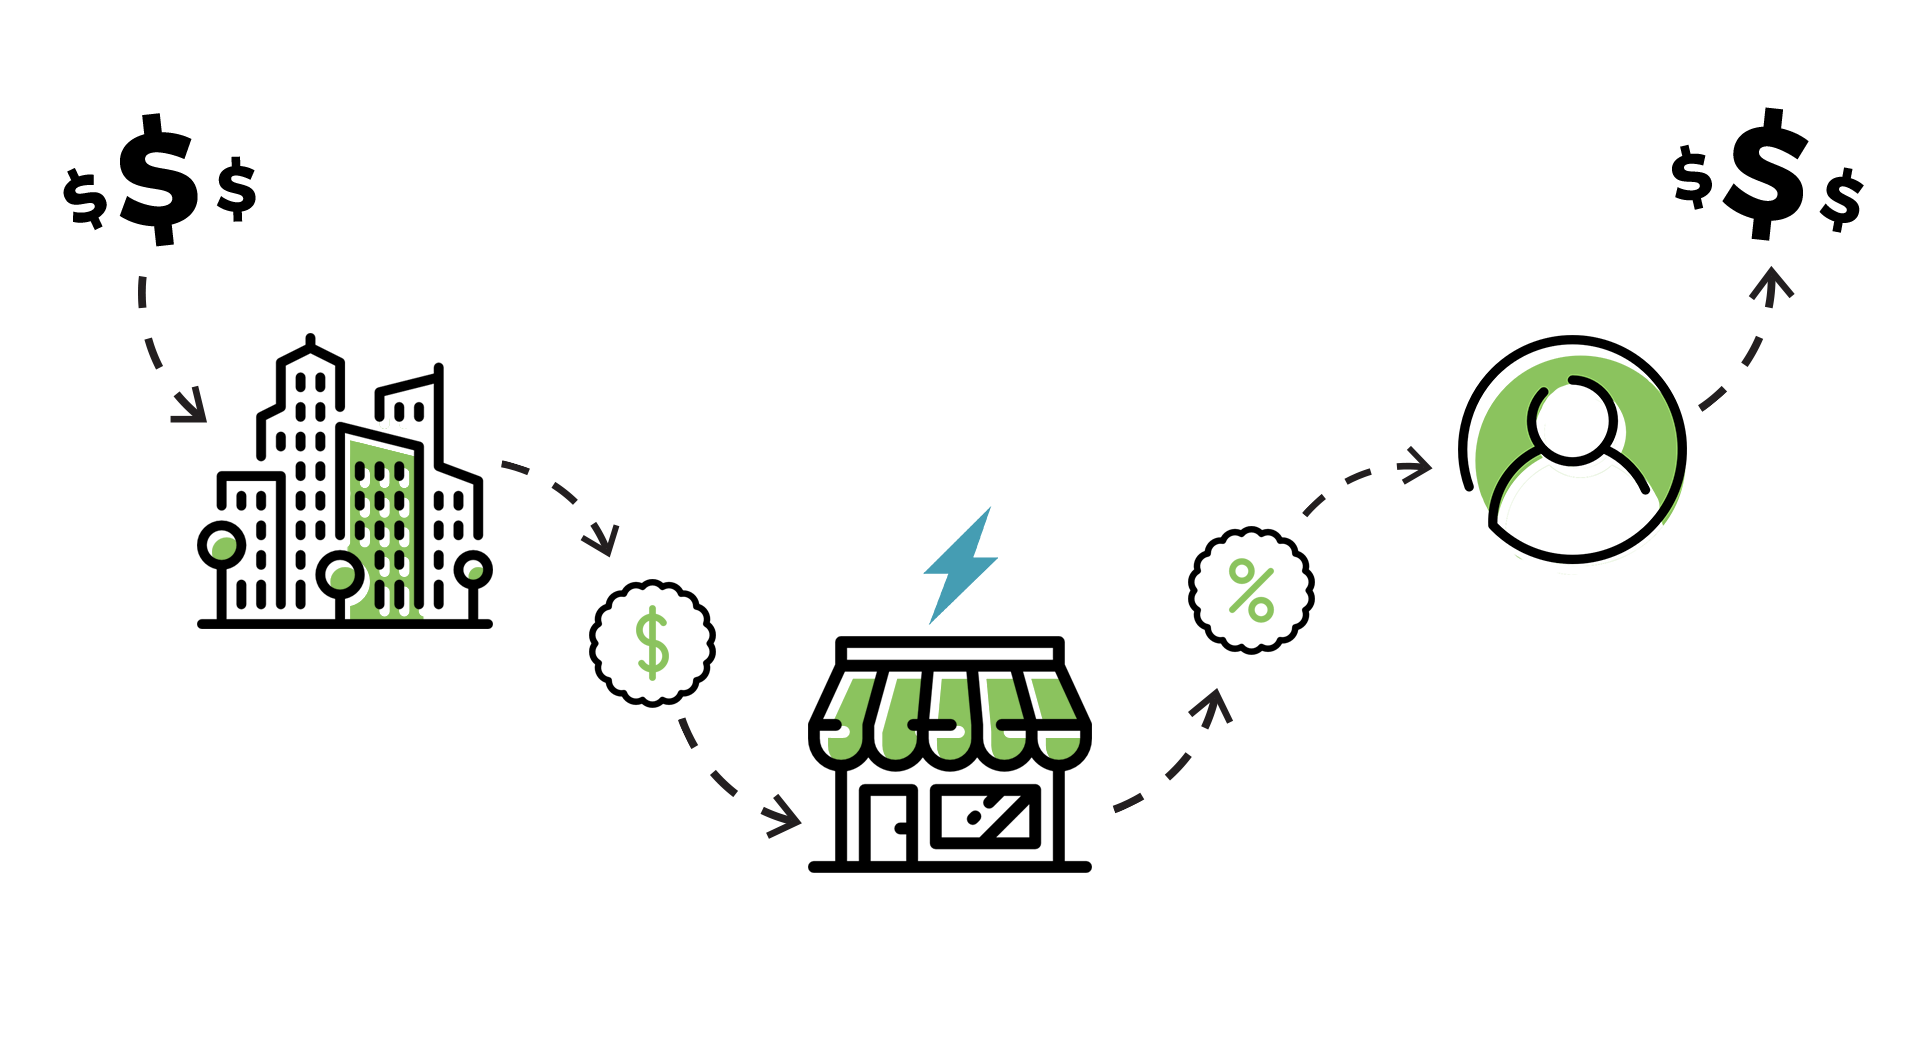
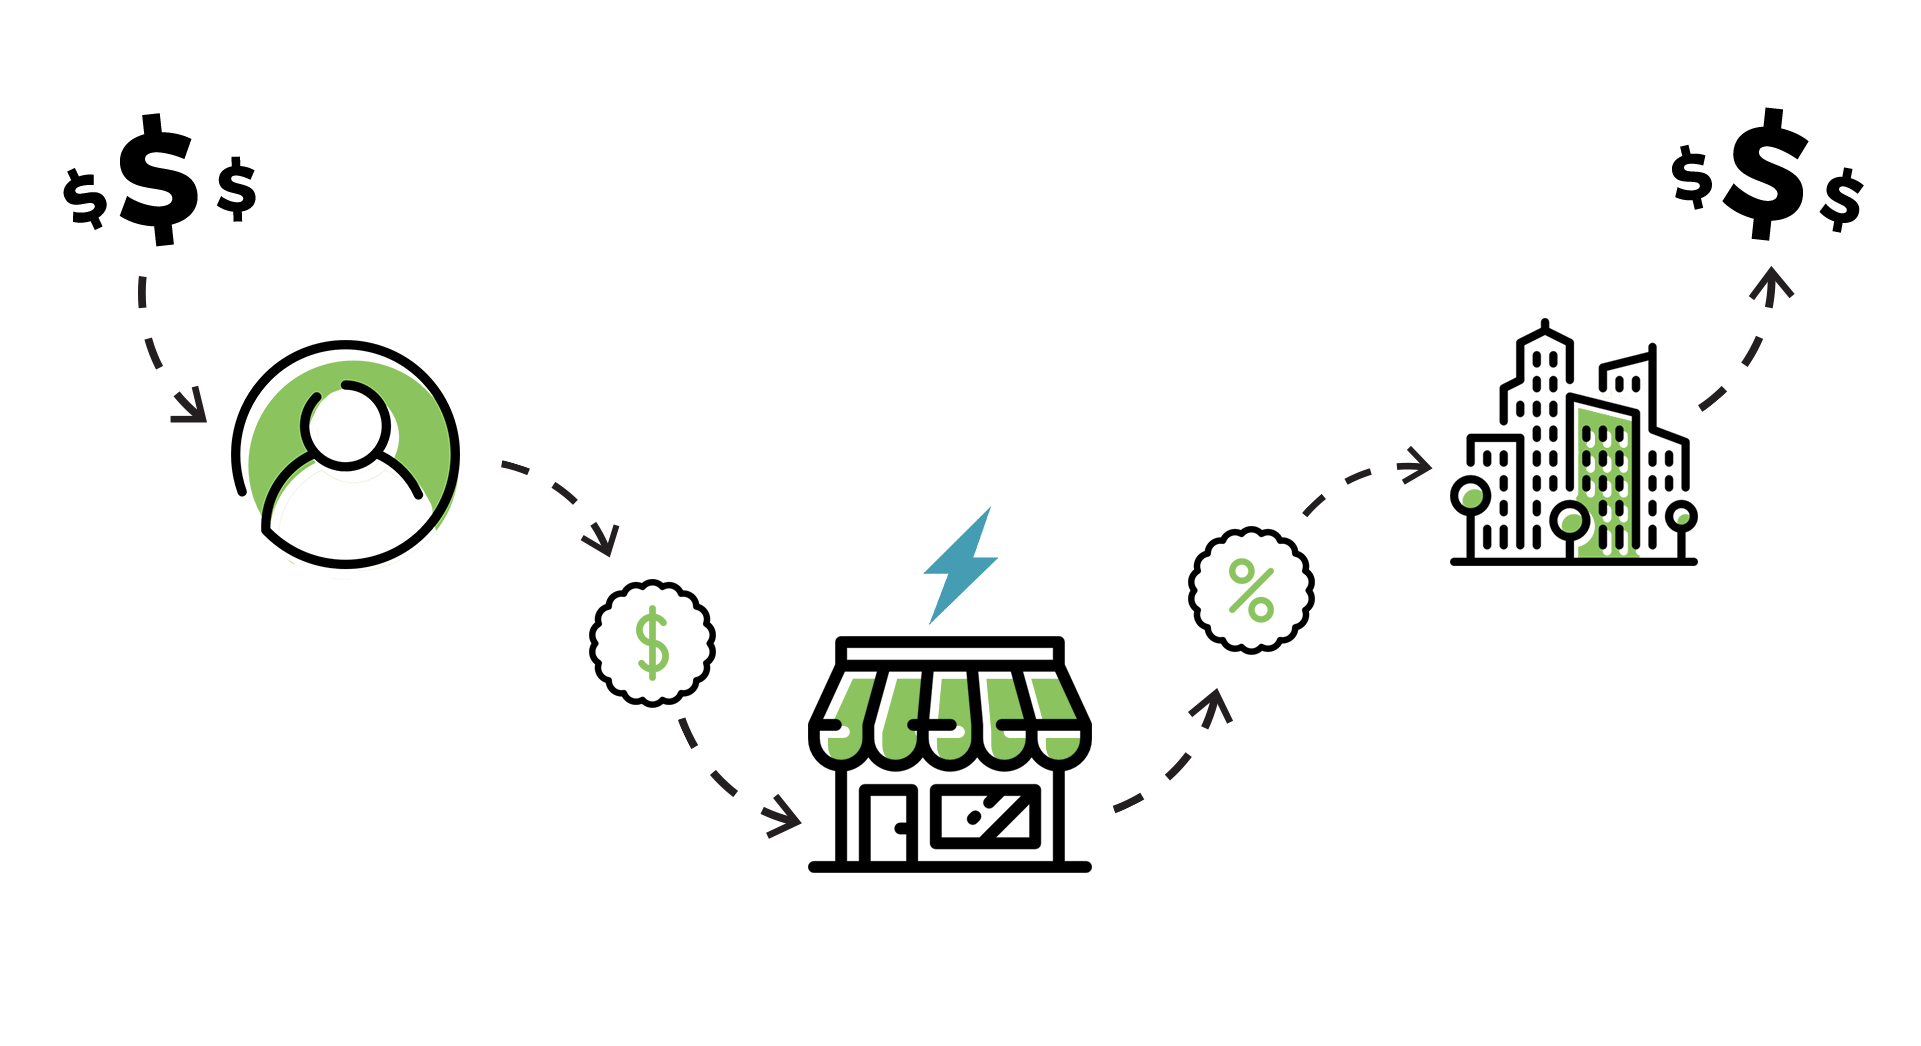
Updated graphic. minor style changes.

Changed region(s): [[0.0937, 0.3059, 0.2811, 0.6119], [0.7496, 0.3059, 0.9058, 0.5507]]

diff --git a/src/css/main.css b/src/css/main.css
@@ -113,12 +113,11 @@ body {
     margin: 0;
     padding: 0;
     padding-top: 55px;
+    padding-bottom: 25px;
     display: none; }
     #main-nav ul li {
       list-style-type: none;
-      text-align: center;
-      text-transform: uppercase;
-      letter-spacing: 3px; }
+      text-align: center; }
       #main-nav ul li a {
         display: block;
         padding: 15px;
@@ -429,8 +428,10 @@ body.info-page {
     height: 70vw;
     -webkit-clip-path: polygon(0 30.71429%, 50% 0, 100% 30.71429%, 100% 100%, 50% 69.28571%, 0 100%);
     clip-path: polygon(0 30.71429%, 50% 0, 100% 30.71429%, 100% 100%, 50% 69.28571%, 0 100%); }
-  .section-6 .content .section-title {
-    margin-bottom: 13vw; } }
+  .section-6 .content {
+    max-width: 760px; }
+    .section-6 .content .section-title {
+      margin-bottom: 13vw; } }
 
 @media (min-width: 768px) {
   #main-nav {
@@ -605,9 +606,9 @@ body.info-page {
 
 @media (min-width: 1200px) {
   .section-1 {
-    height: 40vw;
-    -webkit-clip-path: polygon(0 0, 100% 0, 100% 46.25%, 50% 100%, 0 46.25%);
-    clip-path: polygon(0 0, 100% 0, 100% 46.25%, 50% 100%, 0 46.25%); }
+    height: 43vw;
+    -webkit-clip-path: polygon(0 0, 100% 0, 100% 50%, 50% 100%, 0 50%);
+    clip-path: polygon(0 0, 100% 0, 100% 50%, 50% 100%, 0 50%); }
     .section-1 .content {
       padding-top: 10vw; }
       .section-1 .content p {

diff --git a/src/html/_index.html b/src/html/_index.html
@@ -14,12 +14,12 @@
   <div id="how-it-works-anchor" style="margin-top: -80px; float: left"></div>
   <div class="content">    
     <img class="hiw-full" src="img/sc.png"></img>
-    <img class="hiw-icon" src="img/city.png"></img>
-    <p class="hiw-text"><a href="/communities">Community:</a> Let's grow the Shop Tally spirit, and keep more spending here!</p>
-    <img class="hiw-icon" src="img/shop.png"></img>
-    <p class="hiw-text"><a href="/businesses">Businesses:</a> Supercharge Shop Tally further by adding cashback rewards to attract even more local customers.</p>
     <img class="hiw-icon" src="img/user.png"></img>
     <p class="hiw-text"><a href="/customers">Customers:</a> Link your spending cards and earn cashback at participating businesses.</p>
+    <img class="hiw-icon" src="img/shop.png"></img>
+    <p class="hiw-text"><a href="/businesses">Businesses:</a> Supercharge Shop Tally further by adding cashback rewards to attract even more local customers.</p>
+    <img class="hiw-icon" src="img/city.png"></img>
+    <p class="hiw-text"><a href="/communities">Community:</a> Let's grow the Shop Tally spirit, and keep more spending here!</p>
   </div>
 </div>
 

diff --git a/src/html/_customers.html b/src/html/_customers.html
@@ -26,7 +26,7 @@
 
 <h4>How do I spend my cashback?</h4> 
 <p>
-    When you’re ready to cash in your earnings, just show the issuing business your redemption code. The business will scan your code and subtract the corresponding amount from your bill.  Swell Yeah!
+    When you're ready to cash in your earnings, just show the issuing business your redemption code. The business will scan your code and subtract the corresponding amount from your bill.  Swell Yeah!
 </p>
 
 <a class="btn sign-up-btn" href="https://app.swellcoin.com/sign-up">Get Started</a>

diff --git a/src/sass/main.scss b/src/sass/main.scss
@@ -147,12 +147,13 @@ body {
         margin: 0;
         padding: 0;
         padding-top: 55px;
+        padding-bottom: 25px;
         display: none;        
         li {                      
             list-style-type: none;
             text-align: center;
-            text-transform: uppercase;
-            letter-spacing: 3px;       
+            //text-transform: uppercase;
+            //letter-spacing: 3px;       
             a {                
                 display: block;
                 padding: 15px;

diff --git a/src/html/_businesses.html b/src/html/_businesses.html
@@ -1,5 +1,9 @@
 <h3 class="page-title brand-green">For Businesses</h3>
 
+<p>
+    <a class="btn sign-up-btn" href="https://app.swellcoin.com/sign-up?ref=business">Add Your Business</a>
+</p>
+
 <h4 class="page-subtitle">
     Loyalty rewards system that works.
 </h4>
@@ -54,5 +58,5 @@
 </ol>
 
 <p>
-    <a class="btn sign-up-btn" href="https://app.swellcoin.com/sign-up?ref=business">Get Started</a>
+    <a class="btn sign-up-btn" href="https://app.swellcoin.com/sign-up?ref=business">Add Your Business</a>
 </p>

diff --git a/src/sass/_variables.scss b/src/sass/_variables.scss
@@ -28,7 +28,7 @@ $section-1-height-xs: 130;
 $section-1-height-sm: 90; 
 $section-1-height-md: 65; 
 $section-1-height-lg: 50;
-$section-1-height-xl: 40;
+$section-1-height-xl: 43;
 
 $section-2-height-xs: 335;
 $section-2-height-sm: 225;

diff --git a/src/sass/_media-sm.scss b/src/sass/_media-sm.scss
@@ -40,6 +40,7 @@
     }
     .section-6 {
         .content {
+            max-width: 760px;
             .section-title {
                 margin-bottom: 13vw;
             }
